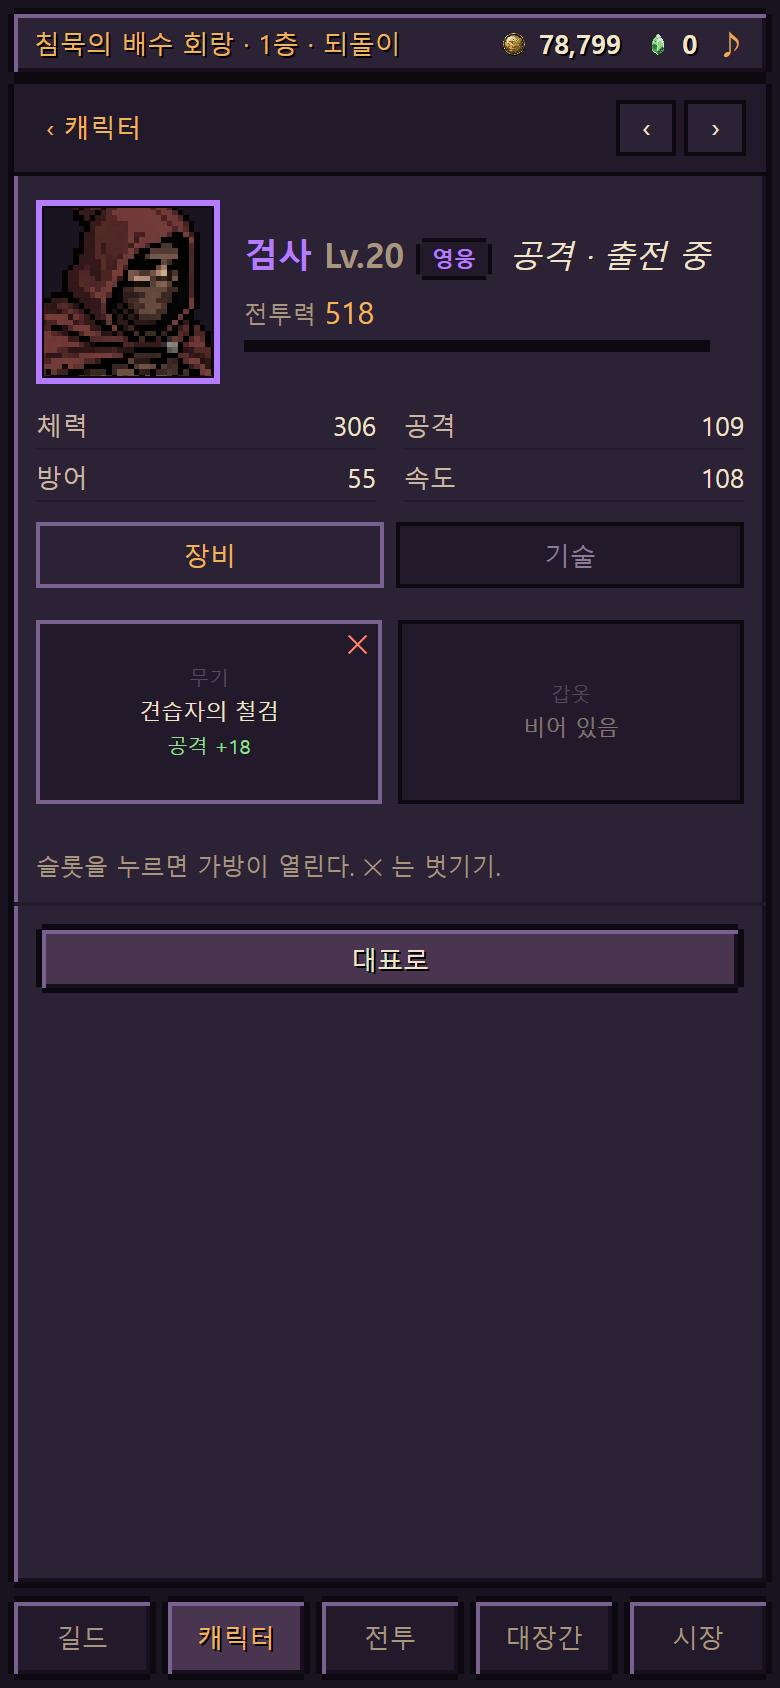
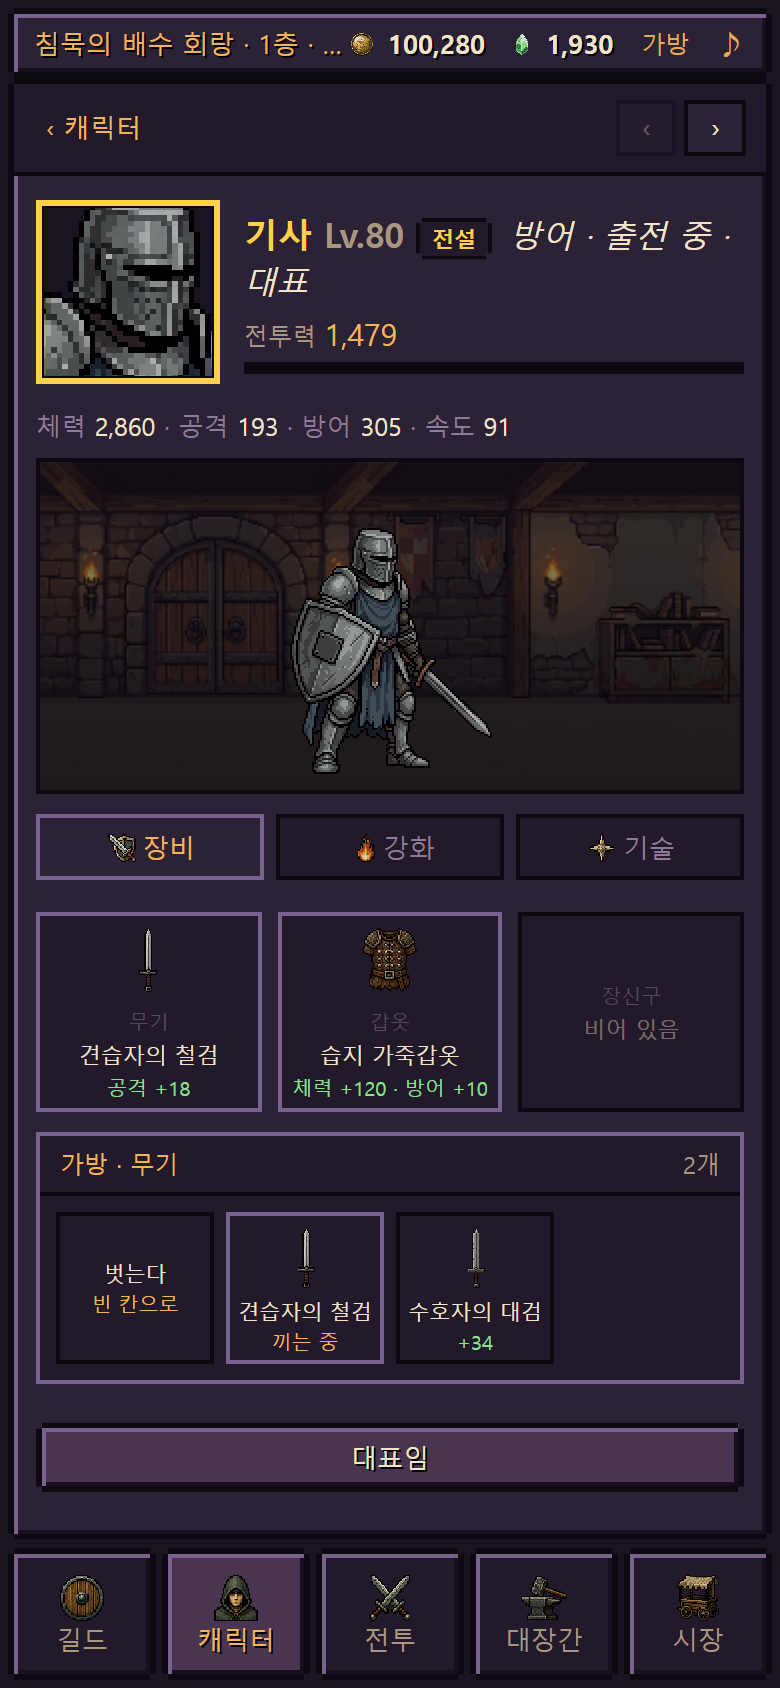
사장님 시안대로 — 아이콘 · 전신 액자 · 파티 슬롯
사장님이 UI 시안 세 장을 주셨다. 지금과 다른 것을 그대로 옮겼다.

**아이콘 26개를 새로 뽑았다**(engine/tools/ash_아이콘.mts). 한 장씩 뽑으면 스무 장이
넘으므로 **4×4 격자 한 장**으로 뽑아 칸을 잘랐다 — 사람을 자르는 것과 달리 **칸 위치가
정해져 있어** 자르기가 어긋나지 않는다(10-07 "넌 자르기를 못해" 는 시트에서 사람을 자를 때였다).
탭 8 · 서브탭 4 · 재료 8 · 물건 8, 전부 한 칸도 안 비고 나왔다.

- **하단 탭에 아이콘** (방패·사람·교차검·망치·수레)
- **서브탭에 아이콘** (검방패·불꽃·별)
- **재료와 장비가 글자가 아니라 그림** — 가방·대장간·시장 전부
- **큰 전신 액자** — 작은 초상화만으로는 누구를 보고 있는지 와닿지 않는다
- **파티 화면을 시안대로**: 1~5 **진행 점**, 세로 슬롯 카드(빈 칸은 **[+] 대기 중**),
  **전투 준비** 두 칸(물약 −/+ · 소모품), "전투 시작 (N층)"
- 능력치를 네 줄 격자에서 **한 줄**로 (시안)

자 10/10 + 문법 통과.

diff --git a/public/ash/index.html b/public/ash/index.html
@@ -150,6 +150,15 @@
   .큰이름{font-size:17px}
   .힘{margin-top:6px;font-size:12px;color:var(--흐림)}
   .힘 b{color:var(--금);font-weight:400;font-size:15px}
+  /* 시안(10-10): 능력치는 한 줄, 그 아래 큰 액자 */
+  .한줄자{padding:0 11px 8px;font-size:12.5px;color:#8d7c99}
+  .한줄자 b{color:var(--글);font-weight:400}
+  .액자{margin:0 11px 10px;height:168px;border:2px solid var(--테);position:relative;overflow:hidden;
+        background:#17111f url(art/tower.png) center/auto 100% no-repeat}
+  .액자::after{content:"";position:absolute;inset:0;background:linear-gradient(rgba(10,7,13,.45),rgba(10,7,13,.72))}
+  .액자 .선것{position:absolute;left:50%;bottom:6px;transform:translateX(-50%);width:120px;height:140px;
+              background-position:center bottom;background-size:auto 136px;background-repeat:no-repeat;
+              image-rendering:pixelated;z-index:2}
   .넉줄{display:grid;grid-template-columns:1fr 1fr;gap:5px 14px;padding:0 11px 10px;font-size:13px;color:#c9b9a0}
   .넉줄 span{display:flex;justify-content:space-between;border-bottom:1px solid var(--창속);padding-bottom:3px}
   .넉줄 b{color:var(--글);font-weight:400}
@@ -193,6 +202,33 @@
   .출전줄.고르기 .자리.켬{opacity:1}
   .출전줄 .넓게{flex:1 1 100%;display:flex;align-items:center;gap:10px;text-align:left;padding:8px 10px}
   .출전줄 .넓게 b{font-size:13px} .출전줄 .넓게 i{margin-left:auto;font-size:11px}
+  /* ── 전투 진입 — 사장님 시안(10-10): 진행 점 · 세로 슬롯 카드 · 전투 준비 두 칸 ── */
+  .점줄{display:flex;align-items:center;justify-content:center;gap:0;margin:2px 0 8px}
+  .점줄 .점{width:22px;height:22px;line-height:18px;text-align:center;font-size:11px;
+            border:2px solid #3a2c45;background:var(--창속);color:#55475e;border-radius:50%}
+  .점줄 .점.참{border-color:var(--초록);color:var(--초록);background:#1e2a1e}
+  .점줄 .선{flex:1;height:2px;background:#3a2c45;max-width:34px}
+  .슬롯판{display:flex;gap:4px}
+  .칸슬롯{flex:1;min-height:104px;background:var(--창속);border:2px solid var(--테);position:relative;
+          display:flex;flex-direction:column;align-items:center;justify-content:center;gap:2px;padding:4px 2px;cursor:pointer}
+  .칸슬롯.참{border-color:var(--금);background:#241c2e}
+  .칸슬롯 .번호{position:absolute;top:1px;left:4px;font-size:9px;color:#55475e}
+  .칸슬롯 .큰낯{width:40px;height:40px;border:2px solid;image-rendering:pixelated;
+                background:#1a1420 center/38px 38px no-repeat}
+  .칸슬롯 .더하기{width:40px;height:40px;line-height:36px;text-align:center;font-size:22px;
+                  color:#44384d;border:2px dashed #3a2c45}
+  .칸슬롯 b{font-size:9.5px;color:var(--글);font-weight:400;text-align:center;line-height:1.2}
+  .칸슬롯 i{font-size:9px;color:#55475e;font-style:normal}
+  .칸슬롯 i.참{color:var(--금)}
+  .준비줄{display:flex;gap:6px;margin-top:4px}
+  .준비칸{flex:1;background:var(--창속);border:2px solid var(--테);padding:6px 8px}
+  .준비칸.흐림{opacity:.5}
+  .준비머리{font-size:11px;color:var(--금);margin-bottom:5px}
+  .준비머리 img{width:16px;height:16px;image-rendering:pixelated;vertical-align:-3px;margin-right:3px}
+  .준비속{display:flex;flex-direction:column;gap:5px}
+  .준비속 b{font-size:11px;color:var(--글);font-weight:400}
+  .준비속 i{font-size:11px;color:#55475e;font-style:normal}
+  .큰단추{font-size:15px;padding:11px}
   /* 몇 병 챙길지 — 켜고 끄기가 아니라 수를 고른다 (10-10 사장님) */
   .수조절{display:flex;align-items:center;gap:8px;margin-left:10px}
   .수조절 span{width:26px;height:26px;line-height:22px;text-align:center;font-size:16px;cursor:pointer;
@@ -219,6 +255,18 @@
   .칸짜리 .수{font-size:10px;color:var(--금)}
   .칸짜리.낌{border-color:var(--빛테)}
   .칸짜리.빔{opacity:.35;cursor:default}
+  /* 탭에 아이콘 (10-10 사장님 시안) — 그림 위, 글자 아래 */
+  .tab img{display:block;width:26px;height:26px;margin:0 auto 1px;image-rendering:pixelated}
+  .tab{line-height:1.1}
+  /* 서브탭에도 아이콘 */
+  .서브탭 span img{width:16px;height:16px;image-rendering:pixelated;vertical-align:-3px;margin-right:3px}
+  /* 아이콘 칸 — 재료·장비를 글자가 아니라 **그림**으로 (사장님 시안) */
+  .칸짜리 img{width:34px;height:34px;image-rendering:pixelated;display:block;margin:0 auto 2px}
+  .슬롯 img{width:36px;height:36px;image-rendering:pixelated;display:block;margin:0 auto 2px}
+  .재료칸 img{width:14px;height:14px;image-rendering:pixelated;vertical-align:-2px;margin-right:2px}
+  .템아이콘{flex:none;width:40px;height:40px;background:var(--창속);border:2px solid var(--테);
+            display:flex;align-items:center;justify-content:center}
+  .템아이콘 img{width:32px;height:32px;image-rendering:pixelated}
   #log b{font-weight:400;color:#ffe2a8}
 
   #panel{height:0;overflow:hidden;background:var(--창);margin:0 4px}
@@ -309,11 +357,11 @@
 
   <div id="tabs">
     <!-- 10-09 사장님 순서: 길드 · 캐릭터 · 전투 · 대장간 · 시장 (10-07 순서에서 바뀜) -->
-    <div class="tab home on" data-t="hall">길드</div>
-    <div class="tab" data-t="crew">캐릭터</div>
-    <div class="tab" data-t="run">전투</div>
-    <div class="tab" data-t="forge">대장간</div>
-    <div class="tab" data-t="shop">시장</div>
+    <div class="tab home on" data-t="hall"><img src="art/icon/t-hall.png" alt="">길드</div>
+    <div class="tab" data-t="crew"><img src="art/icon/t-crew.png" alt="">캐릭터</div>
+    <div class="tab" data-t="run"><img src="art/icon/t-run.png" alt="">전투</div>
+    <div class="tab" data-t="forge"><img src="art/icon/t-forge.png" alt="">대장간</div>
+    <div class="tab" data-t="shop"><img src="art/icon/t-shop.png" alt="">시장</div>
   </div>
 </div>
 
@@ -785,6 +833,11 @@ function 사기(키){
   윗줄(); 저장();
   return true;
 }
+
+/** 레시피 키 → 아이콘 이름 (10-10 사장님 시안: 글자 말고 그림) */
+const 물건아이콘 = { 철검:"i-철검", 대검:"i-대검", 엄니검:"i-엄니검",
+  가죽갑옷:"i-가죽갑옷", 강철갑옷:"i-강철갑옷", 맹수흉갑:"i-맹수흉갑", 회복약:"i-약" };
+const 아이콘 = (이름) => `<img src="art/icon/${이름}.png" alt="">`;
 
 const 레시피 = {
   철검:   { 이름:"견습자의 철검", 슬롯:"무기", 열림:5, 재료:{ 파편:12, 수호핵:1 }, 금화:1000, 효과:{ 공격:18 }, 글:"공격 +18" },
@@ -1453,14 +1506,18 @@ function 출발창(층){
       <!-- 10-10 사장님: 글자 체크박스를 치우고 초상화 슬롯 다섯 칸으로.
            윗줄은 데려갈 자리, 아랫줄은 남은 대원. 누르면 오가고, 빈 칸이 몇인지 바로 보인다.
            (이 주석은 템플릿 문자열 안이다 — 여기에 백틱을 쓰면 템플릿이 끊긴다. 10-10 그래서 한 번 터졌다.) -->
-      <div class="칸이름">출전 ${S.파티.length}/5</div>
-      <div class="출전줄">${Array.from({ length: 5 }, (_, i) => {
+      <!-- 10-10 사장님 시안: **1~5 진행 점** + 세로 슬롯 카드. 빈 칸은 [+] 와 "대기 중". -->
+      <div class="점줄">${Array.from({ length: 5 }, (_, i) =>
+        `<span class="점${i < S.파티.length ? " 참" : ""}">${i + 1}</span>`).join('<i class="선"></i>')}</div>
+      <div class="칸이름">최대 5인 파티 편성</div>
+      <div class="슬롯판">${Array.from({ length: 5 }, (_, i) => {
         const id = S.파티[i], c = id != null ? S.대원.find((x) => x.id === id) : null;
-        if (!c) return `<div class="자리 빈자리"><i>${i + 1}</i></div>`;
-        const d = 카드(c);
-        return `<div class="자리 참" data-넣="${c.id}">
-          <div class="낯" style="border-color:${등급색[d.등급]};background-image:url(${얼굴(d.그림)})"></div>
-          <b>${d.직업}</b><i>Lv.${c.레벨}</i></div>`;
+        const d = c ? 카드(c) : null;
+        return `<div class="칸슬롯${c ? " 참" : ""}" ${c ? `data-넣="${c.id}"` : ""}>
+          <span class="번호">${i + 1}</span>
+          ${c ? `<div class="큰낯" style="border-color:${등급색[d.등급]};background-image:url(${얼굴(d.그림)})"></div>
+                 <b>${d.직업} Lv.${c.레벨}</b><i class="참">출전 중</i>`
+              : `<div class="더하기">+</div><i>대기 중</i>`}</div>`;
       }).join("")}</div>
       <div class="칸이름">대원 — 누르면 넣고 뺀다</div>
       <div class="출전줄 고르기">${S.대원.map((c) => { const d = 카드(c), 안 = S.파티.includes(c.id);
@@ -1468,20 +1525,26 @@ function 출발창(층){
           <div class="낯" style="border-color:${안 ? 등급색[d.등급] : "#3a2c45"};background-image:url(${얼굴(d.그림)})"></div>
           <b>${d.직업}</b><i>${안 ? "출전" : `Lv.${c.레벨}`}</i></div>`; }).join("")
         || `<div class="자리 빈자리"><i>대원이 없다</i></div>`}</div>
-      <div class="칸이름">챙길 것</div>
-      <div class="출전줄"><div class="자리 넓게${(S.약수 ?? 0) > 0 ? " 켬" : ""}">
-        <b>별빛 회복약</b>
-        <span class="수조절">
-          <span class="덜" data-약="-1">−</span>
-          <b class="몇">${S.약수 ?? 0}</b>
-          <span class="더" data-약="1">+</span>
-        </span>
-        <i>가진 것 ${S.가방.약}개</i></div></div>
+      <div class="칸이름">전투 준비</div>
+      <div class="준비줄">
+        <div class="준비칸">
+          <div class="준비머리">${아이콘("i-약")} 물약</div>
+          <div class="준비속">
+            <b>별빛 회복약 ${S.가방.약}</b>
+            <span class="수조절">
+              <span data-약="-1">−</span><b class="몇">${S.약수 ?? 0}</b><span data-약="1">+</span>
+            </span></div>
+        </div>
+        <div class="준비칸 흐림">
+          <div class="준비머리">${아이콘("s-scroll")} 소모품</div>
+          <div class="준비속"><i>아직 없다</i></div>
+        </div>
+      </div>
       <div class="칸이름">자격</div>
       <div class="자격칸">${자격(층).줄.map((r) =>
         `<div class="조건줄${r.됨 ? " 참" : ""}"><span>${r.이름}</span><b>${r.지금}</b></div>`).join("")}</div>
       <!-- 10-09 사장님 구성: 올라가는 단추가 없다. 들어가서 되돌이로 돌며 자격을 채운다. -->
-      <div class="줄"><button class="btn" id="들어가기">들어간다</button></div>
+      <div class="줄"><button class="btn 큰단추" id="들어가기">전투 시작 (${층}층)</button></div>
       <div class="줄"><button class="btn" id="닫기">닫기</button></div>
     </div>`;
     덮.querySelectorAll("[data-넣]").forEach((b) => b.onclick = () => {
@@ -1531,6 +1594,7 @@ function 대원창(el){
     const 값 = 낀 ? Object.entries(레시피[낀.키].효과 ?? {}).map(([k, v]) => `${k} +${v}`).join(" · ") : "";
     // 10-10 사장님 "X 버튼 완전 삭제" — 슬롯을 누르면 가방이 열리고, 벗기는 것도 거기서 한다
     return `<div class="슬롯${낀 ? " 참" : ""}" data-슬롯="${슬롯}">
+      ${낀 && 물건아이콘[낀.키] ? 아이콘(물건아이콘[낀.키]) : ""}
       <div class="칸이름2">${슬롯}</div>
       ${낀 ? `<div class="템이름">${레시피[낀.키].이름}</div><div class="템값">${값}</div>`
            : `<div class="템이름" style="opacity:.4">비어 있음</div>`}</div>`;
@@ -1551,12 +1615,12 @@ function 대원창(el){
         <div class="힘">전투력 <b>${수(전투력(c))}</b></div>
         <div class="bar"><i style="width:${Math.min(100, c.경험/필요경험(c)*100)}%"></i></div></div>
     </div>
-    <div class="넉줄">
-      <span>체력 <b>${수(최대체력(c))}</b></span><span>공격 <b>${수(공격력(c))}</b></span>
-      <span>방어 <b>${수(방어력(c))}</b></span><span>속도 <b>${속도(c)}</b></span>
-    </div>
-    <div style="padding:0 11px"><div class="서브탭">${["장비", "강화", "기술"].map((t) =>
-      `<span class="${S.대원탭 === t ? "on" : ""}" data-대원탭="${t}">${t}</span>`).join("")}</div></div>
+    <div class="한줄자">체력 <b>${수(최대체력(c))}</b> · 공격 <b>${수(공격력(c))}</b>
+      · 방어 <b>${수(방어력(c))}</b> · 속도 <b>${속도(c)}</b></div>
+    <!-- 10-10 사장님 시안: **큰 전신 액자**. 작은 초상화만으로는 누구를 보고 있는지 와닿지 않는다 -->
+    <div class="액자"><div class="선것" style="background-image:url(art/${d.그림}.png)"></div></div>
+    <div style="padding:0 11px"><div class="서브탭">${[["장비","s-gear"], ["강화","s-grow"], ["기술","s-skill"]].map(([t, ic]) =>
+      `<span class="${S.대원탭 === t ? "on" : ""}" data-대원탭="${t}"><img src="art/icon/${ic}.png" alt="">${t}</span>`).join("")}</div></div>
     ${S.대원탭 === "장비"
       ? `<div class="슬롯줄">${["무기", "갑옷", "장신구"].map(슬롯칸).join("")}</div>
          ${S.가방슬롯 ? 가방패널(S.가방슬롯, c)
@@ -1632,6 +1696,7 @@ function 가방패널(슬롯, c){
         const 남 = x.누구 != null && !낌 ? S.대원.find((y) => y.id === x.누구) : null;
         const 차 = 값(x.키) - 지금값;
         return `<div class="칸짜리${낌 ? " 낌" : ""}" data-낄="${x.id}">
+          ${물건아이콘[x.키] ? 아이콘(물건아이콘[x.키]) : ""}
           <div class="이름">${r.이름}</div>
           <div class="수">${낌 ? "끼는 중" : 남 ? 카드(남).직업
             : 차 > 0 ? `<span style="color:#8fe08f">+${수(차)}</span>`
@@ -1657,7 +1722,7 @@ function 가방창(){
       const 들 = Object.keys(재료이름).filter((k) => (g[k] ?? 0) > 0);
       속 = 들.length
         ? `<div class="가방격자">${들.map((k) => `<div class="칸짜리" data-재료="${k}">
-            <div class="이름">${재료이름[k]}</div><div class="수">${수(g[k])}</div></div>`).join("")}</div>`
+            ${아이콘("m-" + k)}<div class="이름">${재료이름[k]}</div><div class="수">${수(g[k])}</div></div>`).join("")}</div>`
         : `<div class="풀이 on">아직 모은 재료가 없다. 탑을 돌면 쌓인다.</div>`;
     } else if (탭 === "장비") {
       const 들 = g.장비 ?? [];
@@ -1665,19 +1730,20 @@ function 가방창(){
         ? `<div class="가방격자">${들.map((x) => { const r = 레시피[x.키];
             const 쥔 = x.누구 != null ? S.대원.find((c) => c.id === x.누구) : null;
             return `<div class="칸짜리${쥔 ? " 낌" : ""}" data-템="${x.id}">
+              ${물건아이콘[x.키] ? 아이콘(물건아이콘[x.키]) : ""}
               <div class="이름">${r.이름}</div>
               <div class="수">${쥔 ? 카드(쥔).직업 : "안 낌"}</div></div>`; }).join("")}</div>`
         : `<div class="풀이 on">만든 장비가 없다. <b>대장간</b>에서 만든다.</div>`;
     } else {
       속 = `<div class="가방격자"><div class="칸짜리${g.약 > 0 ? "" : " 빔"}" data-소모="약">
-          <div class="이름">별빛 회복약</div><div class="수">${수(g.약 ?? 0)}</div></div></div>
+          ${아이콘("i-약")}<div class="이름">별빛 회복약</div><div class="수">${수(g.약 ?? 0)}</div></div></div>
         <div class="풀이 on">소모품은 <b>떠나기 전</b>에 몇 개 챙길지 고른다 — 탑에서 층을 고를 때.</div>`;
     }
     덮.innerHTML = `<div class="카드" onclick="event.stopPropagation()">
       <div class="nm"><b style="display:block;font-size:15px">가방</b>
         <i style="color:var(--흐림);font-size:12px">금화 ${수(S.금화)} · 별가루 ${수(g.별가루 ?? 0)}</i></div>
-      <div class="서브탭" style="margin-top:8px">${["재료", "장비", "소모품"].map((t) =>
-        `<span class="${탭 === t ? "on" : ""}" data-가방탭="${t}">${t}</span>`).join("")}</div>
+      <div class="서브탭" style="margin-top:8px">${[["재료","m-파편"], ["장비","s-gear"], ["소모품","i-약"]].map(([t, ic]) =>
+        `<span class="${탭 === t ? "on" : ""}" data-가방탭="${t}"><img src="art/icon/${ic}.png" alt="">${t}</span>`).join("")}</div>
       ${속}
       <div class="줄"><button class="btn" id="닫기">닫기</button></div></div>`;
     덮.querySelectorAll("[data-가방탭]").forEach((b) => b.onclick = () => { S.가방탭 = b.dataset.가방탭; 그리자(); });
@@ -1781,7 +1847,7 @@ function 칸(){
 
     const 칸들 = (r) => Object.entries(r.재료).map(([k, n]) => {
       const 가진 = g[k] ?? 0, 됨 = 가진 >= n;
-      return `<span class="재료칸${됨 ? " 참" : ""}">${재료이름[k] ?? k}
+      return `<span class="재료칸${됨 ? " 참" : ""}">${아이콘("m-" + k)}${재료이름[k] ?? k}
         <b>${가진}/${n}</b>${됨 ? "" : `<i>${n - 가진} 모자람</i>`}</span>`;
     }).concat(`<span class="재료칸${S.금화 >= r.금화 ? " 참" : ""}">금화 <b>${수(r.금화)}</b>${
       S.금화 >= r.금화 ? "" : `<i>${수(r.금화 - S.금화)} 모자람</i>`}</span>`).join("");
@@ -1796,6 +1862,7 @@ function 칸(){
       if (단계(r) !== 앞단계) { 앞단계 = 단계(r); 글 += `<div class="단계줄">${앞단계}</div>`; }
       const 쓸 = 된다 ? 쓸사람(k) : null;
       글 += `<div class="row${된다 ? " 된다" : ""}${잠김 ? " 잠김" : ""}">
+        ${물건아이콘[k] ? `<div class="템아이콘">${아이콘(물건아이콘[k])}</div>` : ""}
         <div class="nm"><b>${r.이름} <span class="tag">${r.슬롯}</span>${
           된다 ? `<span class="tag r">만들 수 있다</span>` : ""}</b>
           <i>${r.글}</i>
@@ -1817,7 +1884,9 @@ function 칸(){
         <i>금화 ${수(S.금화)} · 내일이면 다시 채워진다</i></div></div>`
       + Object.entries(매대).map(([k, m]) => {
           const 남 = 남은수(k), 살수있나 = 남 > 0 && S.금화 >= m.값;
-          return `<div class="row"><div class="nm"><b>${m.이름}
+          return `<div class="row">${재료이름[k] ? `<div class="템아이콘">${아이콘("m-" + k)}</div>`
+              : k === "약" ? `<div class="템아이콘">${아이콘("i-약")}</div>` : ""}
+            <div class="nm"><b>${m.이름}
             <span class="tag" style="color:${남 > 0 ? "var(--금)" : "#6e5d78"}">오늘 ${산수(k)}/${m.하루}</span></b>
             <i>${m.글}<br><span style="color:${S.금화 >= m.값 ? "#8fe08f" : "#ff8e7a"}">${수(m.값)} 금화</span></i></div>
             <button class="btn" data-사기="${k}" ${살수있나 ? "" : "disabled"}>사기</button></div>`; }).join("")
